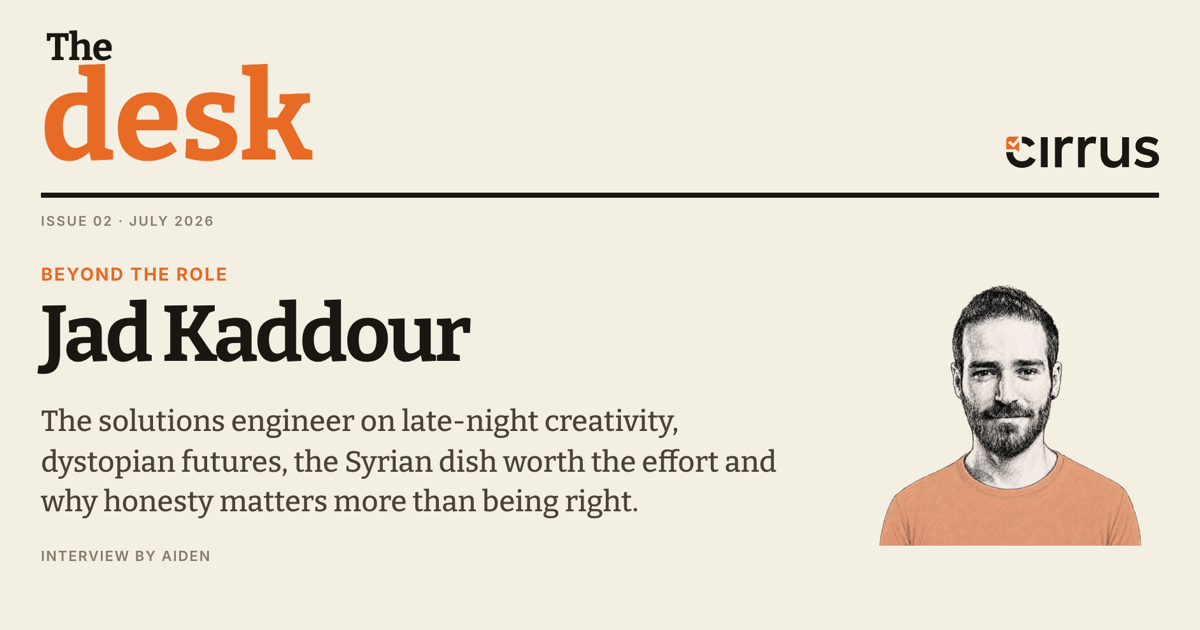
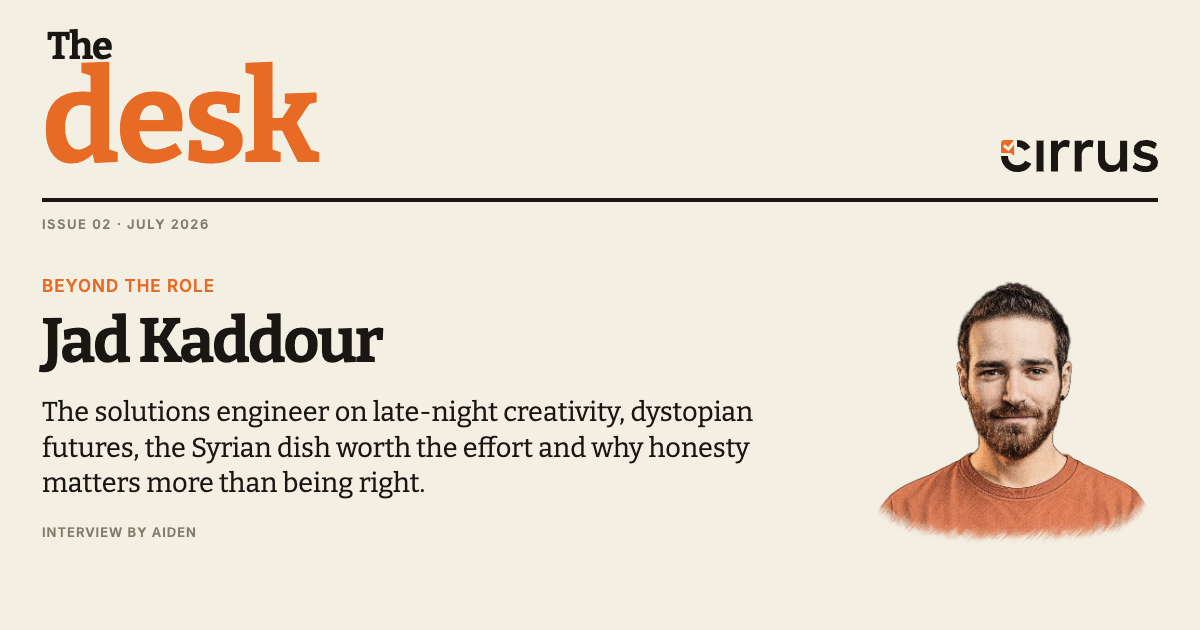
Refresh Jad Kaddour: new portrait and preview card, portal updated

diff --git a/2026-07/index.html b/2026-07/index.html
@@ -15,14 +15,14 @@
 <meta property="og:site_name" content="The desk">
 <meta property="og:title" content="Beyond the role: Jad Kaddour">
 <meta property="og:description" content="The solutions engineer on late-night creativity, dystopian futures, the Syrian dish worth the effort and why honesty matters more than being right.">
-<meta property="og:image" content="https://cirrus-assessment.github.io/the-desk/2026-07/og.png?v=3">
+<meta property="og:image" content="https://cirrus-assessment.github.io/the-desk/2026-07/og.png?v=4">
 <meta property="og:image:width" content="1200">
 <meta property="og:image:height" content="630">
 <meta property="og:url" content="https://cirrus-assessment.github.io/the-desk/2026-07/">
 <meta name="twitter:card" content="summary_large_image">
 <meta name="twitter:title" content="Beyond the role: Jad Kaddour · The desk">
 <meta name="twitter:description" content="The solutions engineer on late-night creativity, dystopian futures, the Syrian dish worth the effort and why honesty matters more than being right.">
-<meta name="twitter:image" content="https://cirrus-assessment.github.io/the-desk/2026-07/og.png?v=3">
+<meta name="twitter:image" content="https://cirrus-assessment.github.io/the-desk/2026-07/og.png?v=4">
 
 <link href="https://fonts.googleapis.com/css2?family=Bitter:wght@500;700&family=Inter:wght@500;600&display=swap" rel="stylesheet">
 <style>

diff --git a/2026-07/jad-kaddour/index.html b/2026-07/jad-kaddour/index.html
@@ -12,7 +12,7 @@
 <meta property="og:site_name" content="The desk">
 <meta property="og:title" content="Beyond the role: Jad Kaddour">
 <meta property="og:description" content="The solutions engineer on late-night creativity, dystopian futures, the Syrian dish worth the effort and why honesty matters more than being right.">
-<meta property="og:image" content="https://cirrus-assessment.github.io/the-desk/2026-07/og.png?v=3">
+<meta property="og:image" content="https://cirrus-assessment.github.io/the-desk/2026-07/og.png?v=4">
 <meta property="og:image:width" content="1200">
 <meta property="og:image:height" content="630">
 <meta property="og:url" content="https://cirrus-assessment.github.io/the-desk/2026-07/jad-kaddour/">
@@ -20,7 +20,7 @@
 <meta name="twitter:card" content="summary_large_image">
 <meta name="twitter:title" content="Beyond the role: Jad Kaddour · The desk">
 <meta name="twitter:description" content="The solutions engineer on late-night creativity, dystopian futures, the Syrian dish worth the effort and why honesty matters more than being right.">
-<meta name="twitter:image" content="https://cirrus-assessment.github.io/the-desk/2026-07/og.png?v=3">
+<meta name="twitter:image" content="https://cirrus-assessment.github.io/the-desk/2026-07/og.png?v=4">
 
 <style>
   html, body {

diff --git a/beyond-the-role/index.html b/beyond-the-role/index.html
@@ -15,14 +15,14 @@
 <meta property="og:site_name" content="The desk">
 <meta property="og:title" content="Beyond the role">
 <meta property="og:description" content="Interviews from The desk with the people we work with.">
-<meta property="og:image" content="https://cirrus-assessment.github.io/the-desk/beyond-the-role/og.png?v=2">
+<meta property="og:image" content="https://cirrus-assessment.github.io/the-desk/beyond-the-role/og.png?v=3">
 <meta property="og:image:width" content="1200">
 <meta property="og:image:height" content="630">
 <meta property="og:url" content="https://cirrus-assessment.github.io/the-desk/beyond-the-role/">
 <meta name="twitter:card" content="summary_large_image">
 <meta name="twitter:title" content="Beyond the role · The desk">
 <meta name="twitter:description" content="Interviews from The desk with the people we work with.">
-<meta name="twitter:image" content="https://cirrus-assessment.github.io/the-desk/beyond-the-role/og.png?v=2">
+<meta name="twitter:image" content="https://cirrus-assessment.github.io/the-desk/beyond-the-role/og.png?v=3">
 
 <link rel="preconnect" href="https://fonts.googleapis.com">
 <link rel="preconnect" href="https://fonts.gstatic.com" crossorigin>
